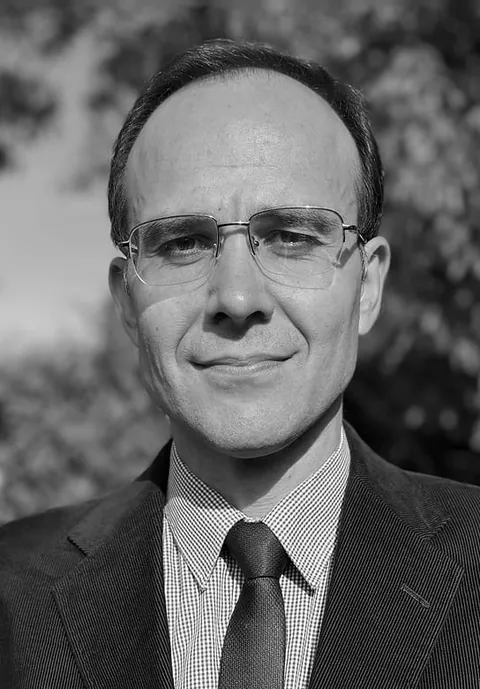
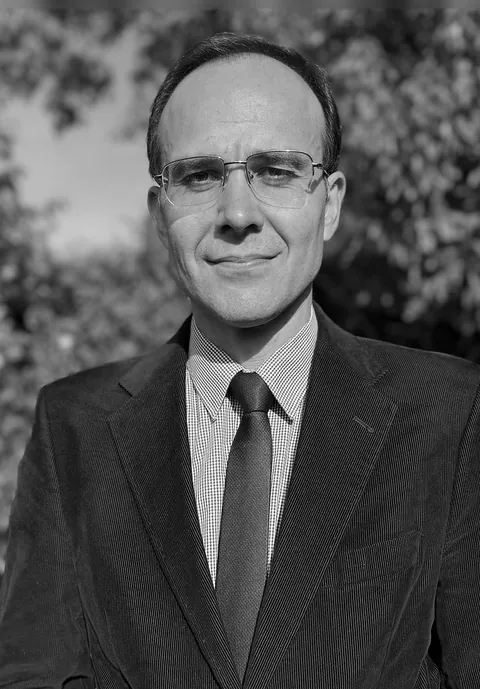
Team row: five cards across the page, wider portrait crops; version tags on stylesheet and script links

diff --git a/assets/css/s4.css b/assets/css/s4.css
@@ -229,8 +229,14 @@ html:not(.s4-js) .s4-cv{display:none}
 
 .s4-404{padding-top:clamp(2.5rem,8vh,5rem);padding-bottom:clamp(2.5rem,8vh,5rem)}
 
-/* team (Biz kimiz / Who we are): IPC's Kişiler cards. Grey portrait, name and role on an IPC-navy fade, e-mail below; each card opens the person's IPC profile. Photos are cropped so every head starts and ends on the same lines; the caption hangs from a fixed line (not the bottom), so every name starts on one line whatever the title's length */
-.art-b .team{list-style:none;padding:0;margin:1.25rem 0 0;max-width:none;display:grid;grid-template-columns:repeat(auto-fill,minmax(12.5rem,1fr));gap:1.75rem 1.25rem}
+/* team (Biz kimiz / Who we are): IPC's Kişiler cards, five in one row across the full page width (the page's <!-- team --> marker; article.njk).
+   Grey portrait, name and role on an IPC-navy fade, e-mail below; each card opens the person's IPC profile. Photos are cropped so every head
+   starts and ends on the same lines; the caption hangs from a fixed line (not the bottom), so every name starts on one line whatever the title */
+.art:has(.art-wide) .art-h{position:static}   /* a sticky heading would slide over the full-width row */
+.art-wide{grid-column:1/13;min-width:0;margin-top:2.75rem}
+.art-wide h2{font-size:1.5rem;font-weight:500;line-height:1.15;letter-spacing:-.024em;margin:0 0 1.25rem}
+.art-b2{padding-top:2.75rem}
+.team{list-style:none;padding:0;margin:0;display:grid;grid-template-columns:repeat(5,minmax(0,1fr));gap:2rem 1rem}
 .team li{min-width:0}
 .team-pic{position:relative;display:block;aspect-ratio:480/689;overflow:hidden;border-radius:var(--r);background:#1b2150;color:#fff!important;text-decoration:none!important}
 .team-pic img{display:block;width:100%;height:100%;object-fit:cover;transition:transform calc(var(--t)*.4) var(--ease)}
@@ -241,15 +247,16 @@ html:not(.s4-js) .s4-cv{display:none}
 .team-pic:focus-visible{outline:2px solid var(--focus);outline-offset:3px}
 @media (hover:hover) and (pointer:fine){.team-pic:hover img{transform:scale(1.035)}}
 @media (prefers-reduced-motion:reduce){.team-pic img{transition:none}}
-.team-mail{display:flex;align-items:flex-start;gap:.4rem;margin-top:.6rem;font-size:.8125rem;color:var(--ink2)!important;text-decoration:none!important;min-width:0}
+.team-mail{display:flex;align-items:flex-start;gap:.35rem;margin-top:.6rem;font-size:.75rem;color:var(--ink2)!important;text-decoration:none!important;min-width:0}
 .team-mail span{min-width:0;line-height:1.35;overflow-wrap:anywhere}
 .team-mail svg{flex:0 0 auto;margin-top:.1rem}
 .team-mail:hover span{text-decoration:underline;text-underline-offset:.2em}
+@media (max-width:1199px){.team{grid-template-columns:repeat(3,minmax(0,1fr));gap:1.75rem 1.25rem}}
+@media (max-width:899px){.art-wide{margin-top:2.25rem}}
 @media (max-width:600px){
-  .art-b .team{grid-template-columns:repeat(2,minmax(0,1fr));gap:1.5rem .9rem}
+  .team{grid-template-columns:repeat(2,minmax(0,1fr));gap:1.5rem .9rem}
   .team-cap{top:62%;padding:0 .7rem}
   .team-cap b{font-size:.875rem}
   .team-cap span{font-size:.75rem}
-  .team-mail{font-size:.75rem}
 }
-@media (max-width:340px){.art-b .team{grid-template-columns:minmax(0,1fr)}.team-cap{top:66%}}
+@media (max-width:340px){.team{grid-template-columns:minmax(0,1fr)}.team-cap{top:66%}}

diff --git a/tr/biz-kimiz/index.html b/tr/biz-kimiz/index.html
@@ -13,8 +13,8 @@
 <link rel="icon" href="/assets/img/favicon-ipc.ico">
 <script src="/assets/js/theme-early.js"></script>
 
-<link rel="stylesheet" href="/assets/css/site.css">
-<link rel="stylesheet" href="/assets/css/s4.css">
+<link rel="stylesheet" href="/assets/css/site.css?v=eff910f25d">
+<link rel="stylesheet" href="/assets/css/s4.css?v=eff910f25d">
 </head>
 <body class="mra">
 
@@ -56,8 +56,11 @@
   <div class="art-b">
   <p>İstanbul Politikalar Merkezi (İPM), Sabancı Üniversitesi bünyesinde çalışan bağımsız bir politika araştırma merkezidir. Makro Risk Akademi, İPM’nin dış ticaret risk endeksi çalışmasından doğdu: önce veri, sonra panolar, şimdi eğitim.</p>
 
-<h2>Ekip</h2>
 
+  </div>
+  <section class="art-wide" aria-labelledby="team-h">
+    <h2 id="team-h">Ekip</h2>
+    
 <ul class="team">
   <li>
     <a class="team-pic" href="https://ipc.sabanciuniv.edu/kisiler/senem-aydin-duzgit">
@@ -95,6 +98,9 @@
   </li>
 </ul>
 
+  </section>
+  <div class="art-b art-b2">
+  
 
 <h2>Kurumlar</h2>
 <p>Program, İstanbul Politikalar Merkezi ile Sabancı Üniversitesi Yönetici Geliştirme Birimi (EDU) iş birliğiyle yürütülür.</p>
@@ -157,6 +163,6 @@
   </div>
 </div>
 
-<script src="/assets/js/site.js" defer></script>
+<script src="/assets/js/site.js?v=eff910f25d" defer></script>
 </body>
 </html>

diff --git a/en/who-we-are/index.html b/en/who-we-are/index.html
@@ -13,8 +13,8 @@
 <link rel="icon" href="/assets/img/favicon-ipc.ico">
 <script src="/assets/js/theme-early.js"></script>
 
-<link rel="stylesheet" href="/assets/css/site.css">
-<link rel="stylesheet" href="/assets/css/s4.css">
+<link rel="stylesheet" href="/assets/css/site.css?v=eff910f25d">
+<link rel="stylesheet" href="/assets/css/s4.css?v=eff910f25d">
 </head>
 <body class="mra">
 
@@ -56,8 +56,11 @@
   <div class="art-b">
   <p>The Istanbul Policy Center (IPC) is an independent policy research centre at Sabancı University. Macro Risk Academy grew out of IPC’s trade risk index work: first the data, then the dashboards, now the training.</p>
 
-<h2>Team</h2>
 
+  </div>
+  <section class="art-wide" aria-labelledby="team-h">
+    <h2 id="team-h">Team</h2>
+    
 <ul class="team">
   <li>
     <a class="team-pic" href="https://ipc.sabanciuniv.edu/en/people/senem-aydin-duzgit">
@@ -95,6 +98,9 @@
   </li>
 </ul>
 
+  </section>
+  <div class="art-b art-b2">
+  
 
 <h2>Institutions</h2>
 <p>Istanbul Policy Center, Sabancı University. The programme runs in cooperation with Sabancı University’s Executive Development Unit (EDU).</p>
@@ -157,6 +163,6 @@
   </div>
 </div>
 
-<script src="/assets/js/site.js" defer></script>
+<script src="/assets/js/site.js?v=eff910f25d" defer></script>
 </body>
 </html>

diff --git a/en/imprint/index.html b/en/imprint/index.html
@@ -13,8 +13,8 @@
 <link rel="icon" href="/assets/img/favicon-ipc.ico">
 <script src="/assets/js/theme-early.js"></script>
 
-<link rel="stylesheet" href="/assets/css/site.css">
-<link rel="stylesheet" href="/assets/css/s4.css">
+<link rel="stylesheet" href="/assets/css/site.css?v=eff910f25d">
+<link rel="stylesheet" href="/assets/css/s4.css?v=eff910f25d">
 </head>
 <body class="mra">
 
@@ -118,6 +118,6 @@ Bankalar Cad. No: 2 Minerva Han, 34420 Karaköy, Istanbul, Türkiye
   </div>
 </div>
 
-<script src="/assets/js/site.js" defer></script>
+<script src="/assets/js/site.js?v=eff910f25d" defer></script>
 </body>
 </html>

diff --git a/tr/kunye/index.html b/tr/kunye/index.html
@@ -13,8 +13,8 @@
 <link rel="icon" href="/assets/img/favicon-ipc.ico">
 <script src="/assets/js/theme-early.js"></script>
 
-<link rel="stylesheet" href="/assets/css/site.css">
-<link rel="stylesheet" href="/assets/css/s4.css">
+<link rel="stylesheet" href="/assets/css/site.css?v=eff910f25d">
+<link rel="stylesheet" href="/assets/css/s4.css?v=eff910f25d">
 </head>
 <body class="mra">
 
@@ -118,6 +118,6 @@ Bankalar Cad. No: 2 Minerva Han, 34420 Karaköy, İstanbul
   </div>
 </div>
 
-<script src="/assets/js/site.js" defer></script>
+<script src="/assets/js/site.js?v=eff910f25d" defer></script>
 </body>
 </html>

diff --git a/en/academy/index.html b/en/academy/index.html
@@ -13,8 +13,8 @@
 <link rel="icon" href="/assets/img/favicon-ipc.ico">
 <script src="/assets/js/theme-early.js"></script>
 
-<link rel="stylesheet" href="/assets/css/site.css">
-<link rel="stylesheet" href="/assets/css/s4.css">
+<link rel="stylesheet" href="/assets/css/site.css?v=eff910f25d">
+<link rel="stylesheet" href="/assets/css/s4.css?v=eff910f25d">
 </head>
 <body class="mra">
 
@@ -121,6 +121,6 @@
   </div>
 </div>
 
-<script src="/assets/js/site.js" defer></script>
+<script src="/assets/js/site.js?v=eff910f25d" defer></script>
 </body>
 </html>

diff --git a/en/contact/index.html b/en/contact/index.html
@@ -13,8 +13,8 @@
 <link rel="icon" href="/assets/img/favicon-ipc.ico">
 <script src="/assets/js/theme-early.js"></script>
 
-<link rel="stylesheet" href="/assets/css/site.css">
-<link rel="stylesheet" href="/assets/css/s4.css">
+<link rel="stylesheet" href="/assets/css/site.css?v=eff910f25d">
+<link rel="stylesheet" href="/assets/css/s4.css?v=eff910f25d">
 </head>
 <body class="mra">
 
@@ -127,6 +127,6 @@
   </div>
 </div>
 
-<script src="/assets/js/site.js" defer></script>
+<script src="/assets/js/site.js?v=eff910f25d" defer></script>
 </body>
 </html>

diff --git a/en/cookies/index.html b/en/cookies/index.html
@@ -13,8 +13,8 @@
 <link rel="icon" href="/assets/img/favicon-ipc.ico">
 <script src="/assets/js/theme-early.js"></script>
 
-<link rel="stylesheet" href="/assets/css/site.css">
-<link rel="stylesheet" href="/assets/css/s4.css">
+<link rel="stylesheet" href="/assets/css/site.css?v=eff910f25d">
+<link rel="stylesheet" href="/assets/css/s4.css?v=eff910f25d">
 </head>
 <body class="mra">
 
@@ -154,6 +154,6 @@
   </div>
 </div>
 
-<script src="/assets/js/site.js" defer></script>
+<script src="/assets/js/site.js?v=eff910f25d" defer></script>
 </body>
 </html>

diff --git a/en/dashboards/index.html b/en/dashboards/index.html
@@ -13,8 +13,8 @@
 <link rel="icon" href="/assets/img/favicon-ipc.ico">
 <script src="/assets/js/theme-early.js"></script>
 
-<link rel="stylesheet" href="/assets/css/site.css">
-<link rel="stylesheet" href="/assets/css/s4.css">
+<link rel="stylesheet" href="/assets/css/site.css?v=eff910f25d">
+<link rel="stylesheet" href="/assets/css/s4.css?v=eff910f25d">
 </head>
 <body class="mra">
 
@@ -164,6 +164,6 @@
   </div>
 </div>
 
-<script src="/assets/js/site.js" defer></script>
+<script src="/assets/js/site.js?v=eff910f25d" defer></script>
 </body>
 </html>

diff --git a/en/dashboards/method/index.html b/en/dashboards/method/index.html
@@ -13,8 +13,8 @@
 <link rel="icon" href="/assets/img/favicon-ipc.ico">
 <script src="/assets/js/theme-early.js"></script>
 
-<link rel="stylesheet" href="/assets/css/site.css">
-<link rel="stylesheet" href="/assets/css/s4.css">
+<link rel="stylesheet" href="/assets/css/site.css?v=eff910f25d">
+<link rel="stylesheet" href="/assets/css/s4.css?v=eff910f25d">
 </head>
 <body class="mra">
 
@@ -124,6 +124,6 @@
   </div>
 </div>
 
-<script src="/assets/js/site.js" defer></script>
+<script src="/assets/js/site.js?v=eff910f25d" defer></script>
 </body>
 </html>

diff --git a/en/index.html b/en/index.html
@@ -13,8 +13,8 @@
 <link rel="icon" href="/assets/img/favicon-ipc.ico">
 <script src="/assets/js/theme-early.js"></script>
 
-<link rel="stylesheet" href="/assets/css/site.css">
-<link rel="stylesheet" href="/assets/css/s4.css">
+<link rel="stylesheet" href="/assets/css/site.css?v=eff910f25d">
+<link rel="stylesheet" href="/assets/css/s4.css?v=eff910f25d">
 </head>
 <body class="mra">
 
@@ -193,6 +193,6 @@
   </div>
 </div>
 
-<script src="/assets/js/site.js" defer></script>
+<script src="/assets/js/site.js?v=eff910f25d" defer></script>
 </body>
 </html>

diff --git a/en/privacy/index.html b/en/privacy/index.html
@@ -13,8 +13,8 @@
 <link rel="icon" href="/assets/img/favicon-ipc.ico">
 <script src="/assets/js/theme-early.js"></script>
 
-<link rel="stylesheet" href="/assets/css/site.css">
-<link rel="stylesheet" href="/assets/css/s4.css">
+<link rel="stylesheet" href="/assets/css/site.css?v=eff910f25d">
+<link rel="stylesheet" href="/assets/css/s4.css?v=eff910f25d">
 </head>
 <body class="mra">
 
@@ -130,6 +130,6 @@
   </div>
 </div>
 
-<script src="/assets/js/site.js" defer></script>
+<script src="/assets/js/site.js?v=eff910f25d" defer></script>
 </body>
 </html>
